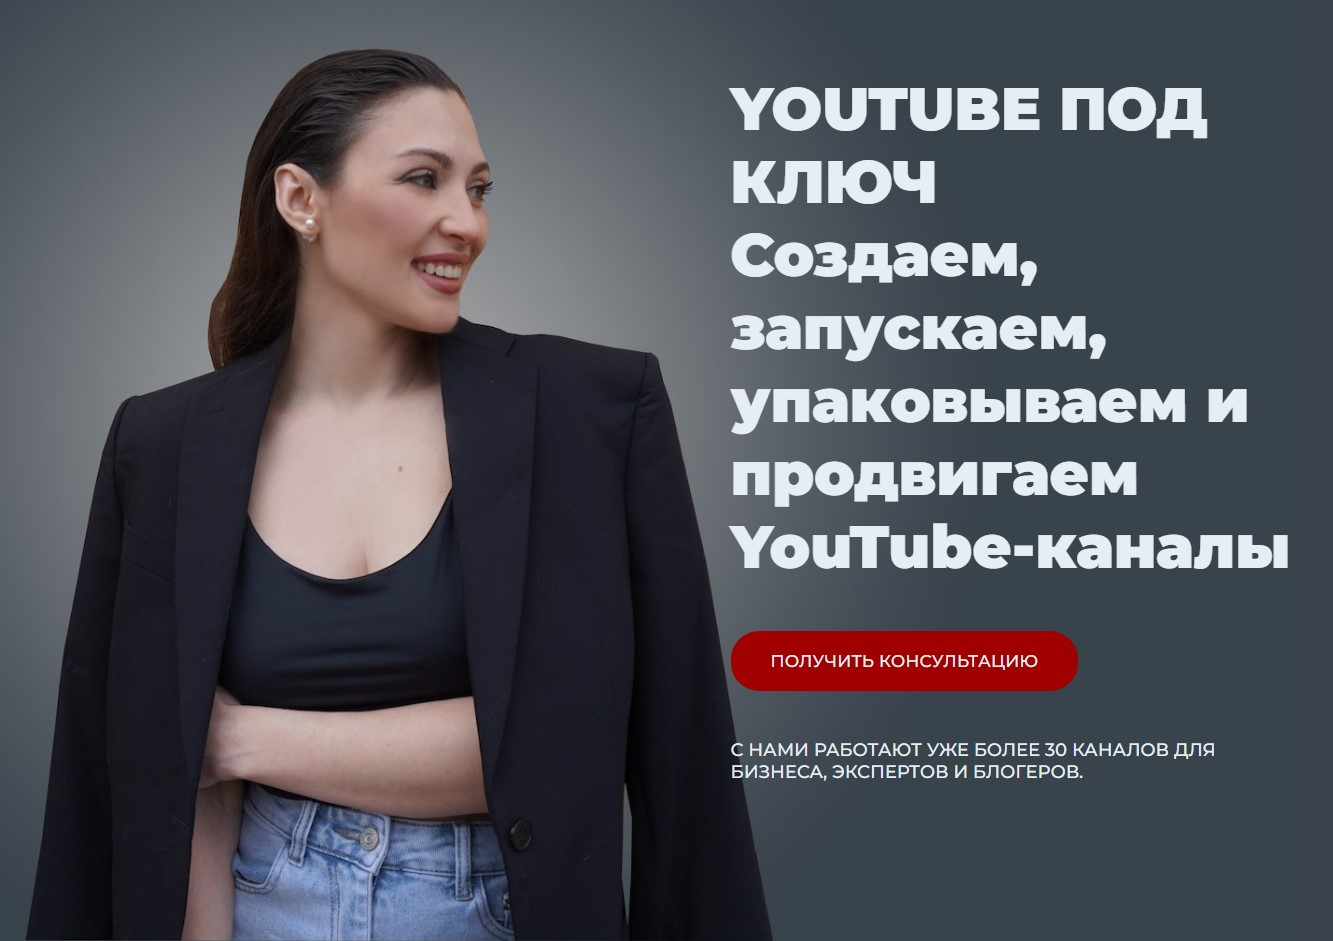
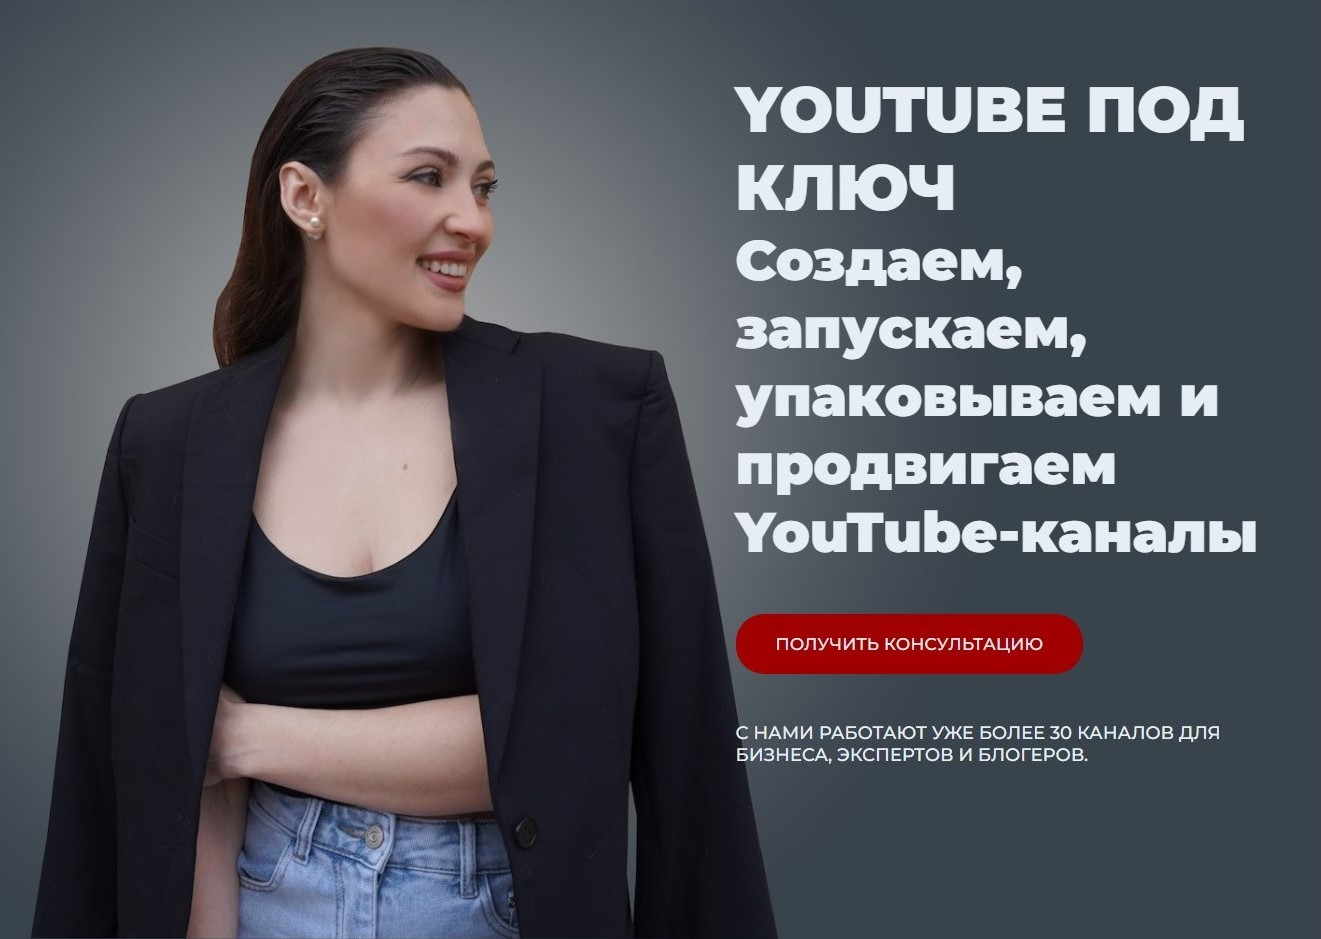
font

diff --git a/src/sass/layout/_hero.scss b/src/sass/layout/_hero.scss
@@ -43,7 +43,7 @@
     }
 
     @media screen and (min-width: 480px) and (max-width: 767px) {
-        width: 348px;
+        width: 342px;
         margin-right: auto;
     }
 
@@ -67,13 +67,13 @@
             font-weight: 800;
         }
 
-        font-size: 32px;
+        font-size: 30px;
         font-weight: 800;
     }
 
     @media screen and (min-width: 768px) and (max-width: 1199px) {
         & span {
-            font-size: 42px;
+            font-size: 44px;
             font-weight: 800;
         }
 
@@ -83,11 +83,11 @@
 
     @media screen and (min-width: 1200px) {
         & span {
-            font-size: 60px;
+            font-size: 64px;
             font-weight: 900;
         }
 
-        font-size: 58px;
+        font-size: 56px;
         font-weight: 900;
     }
 }
